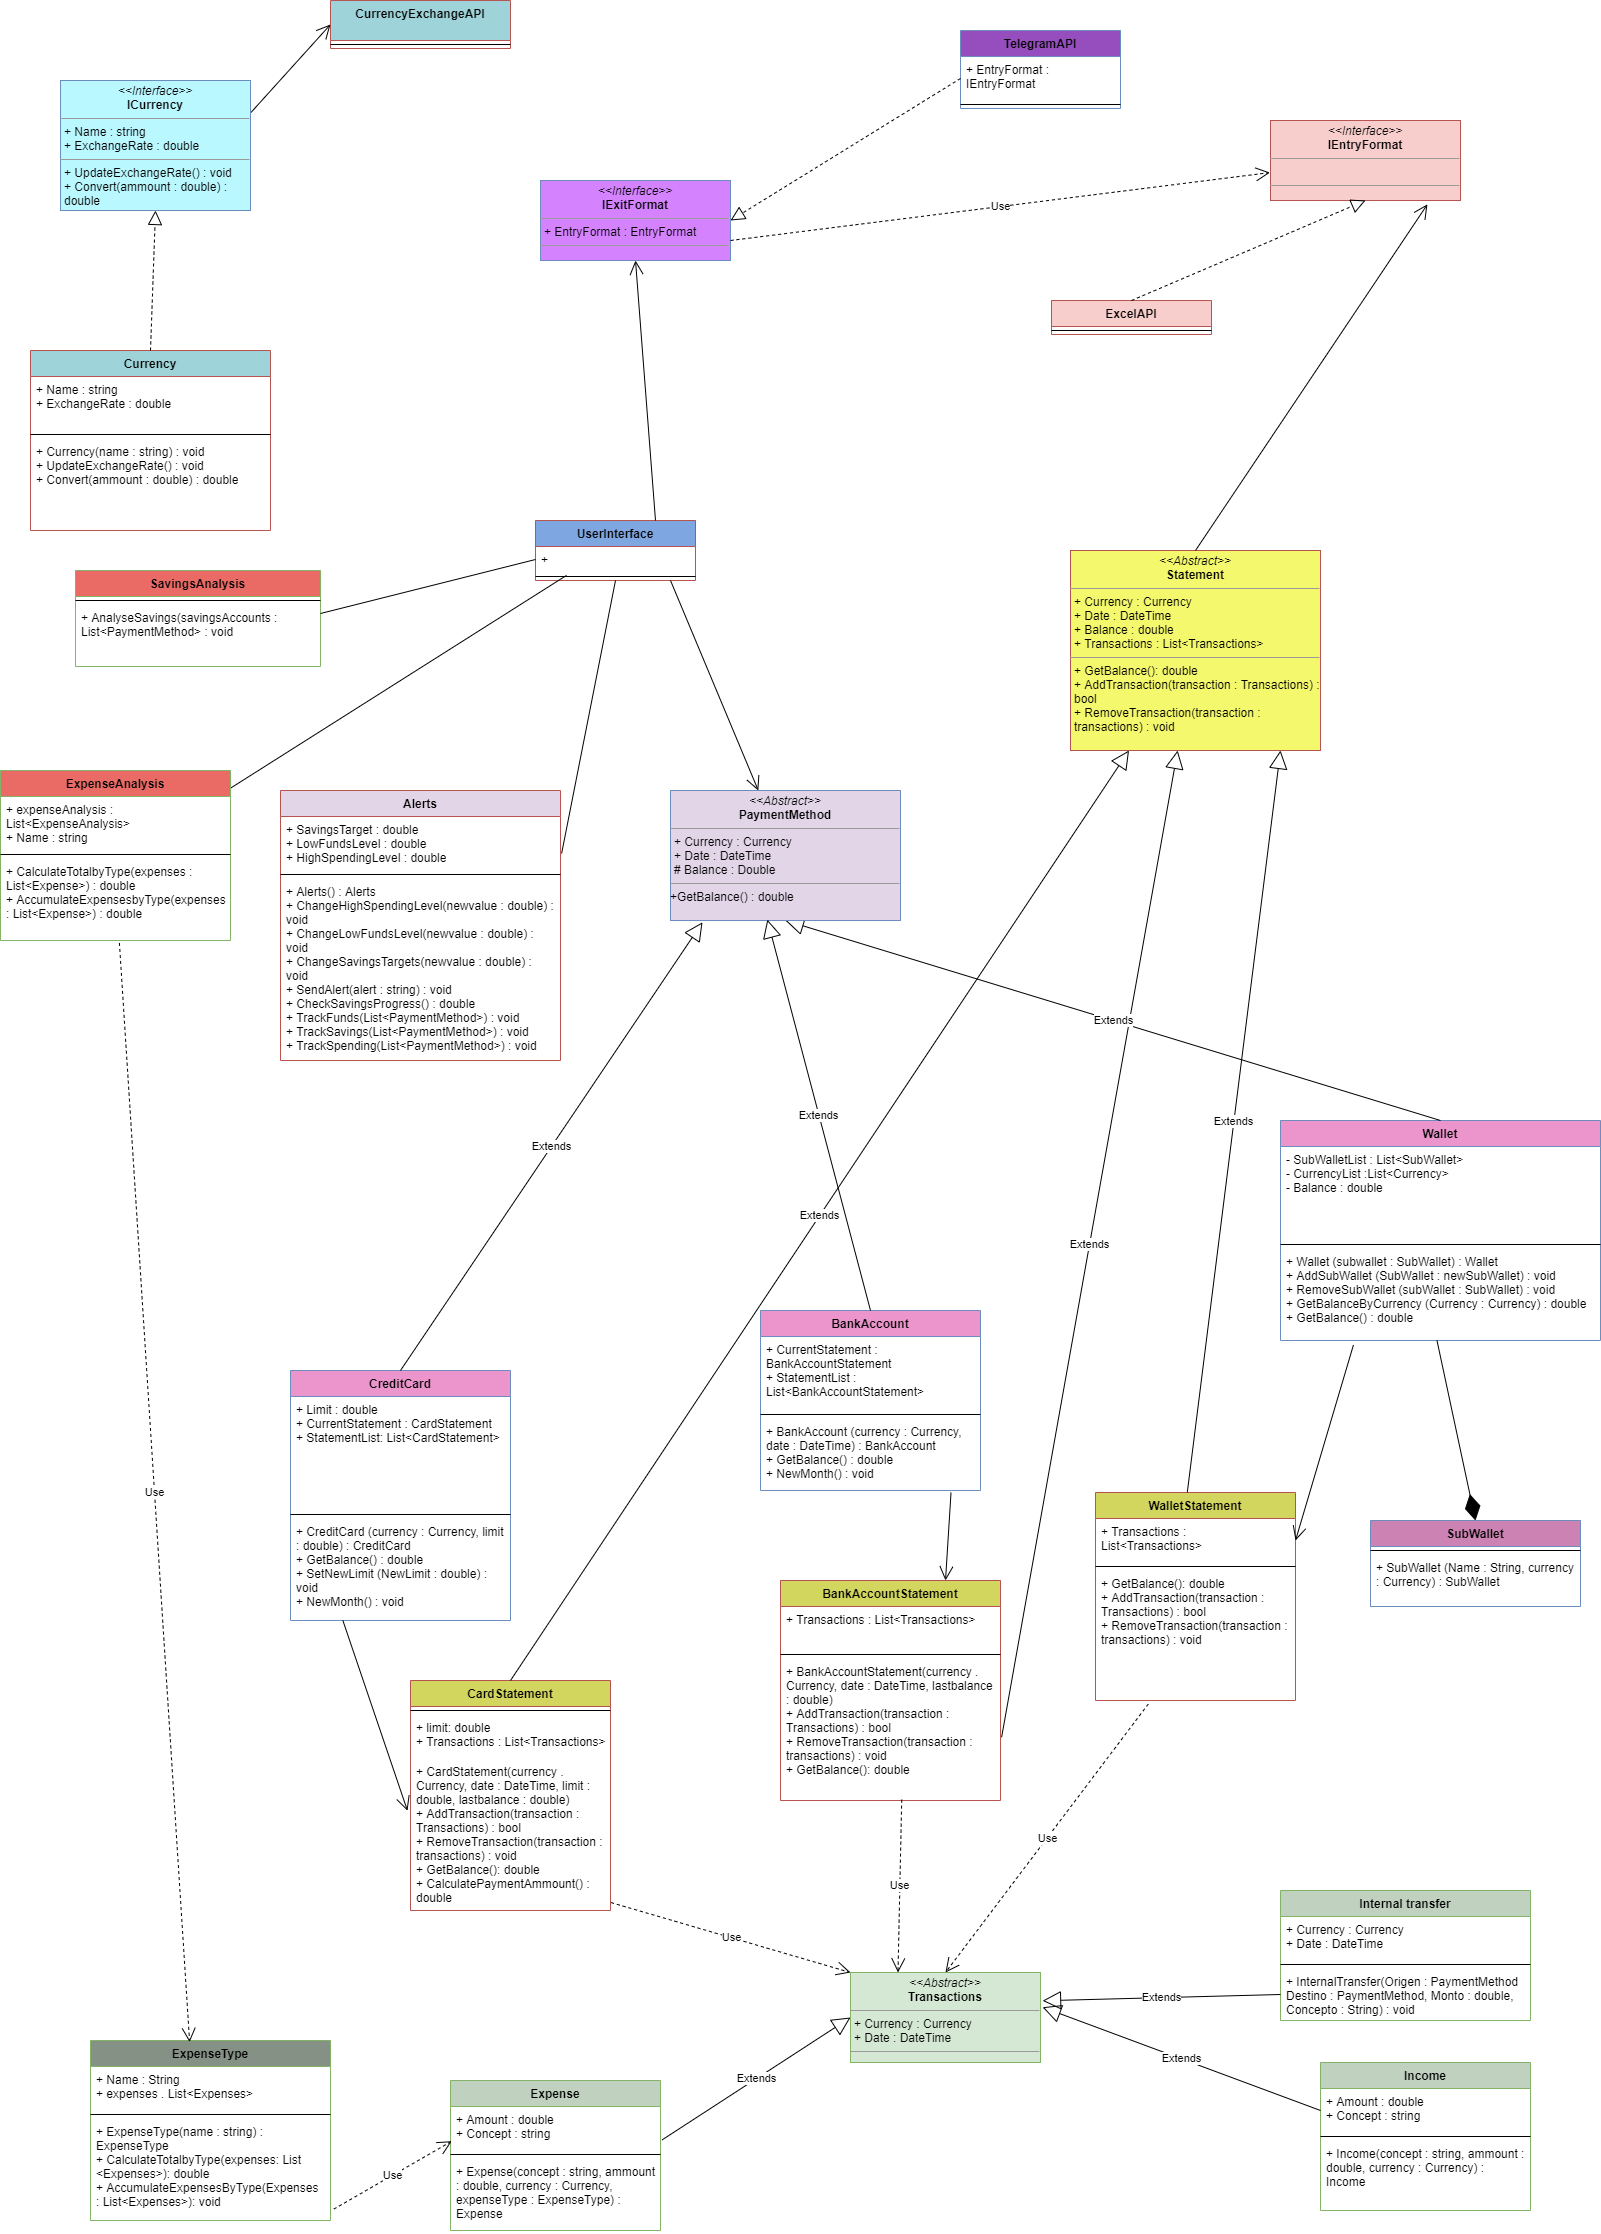
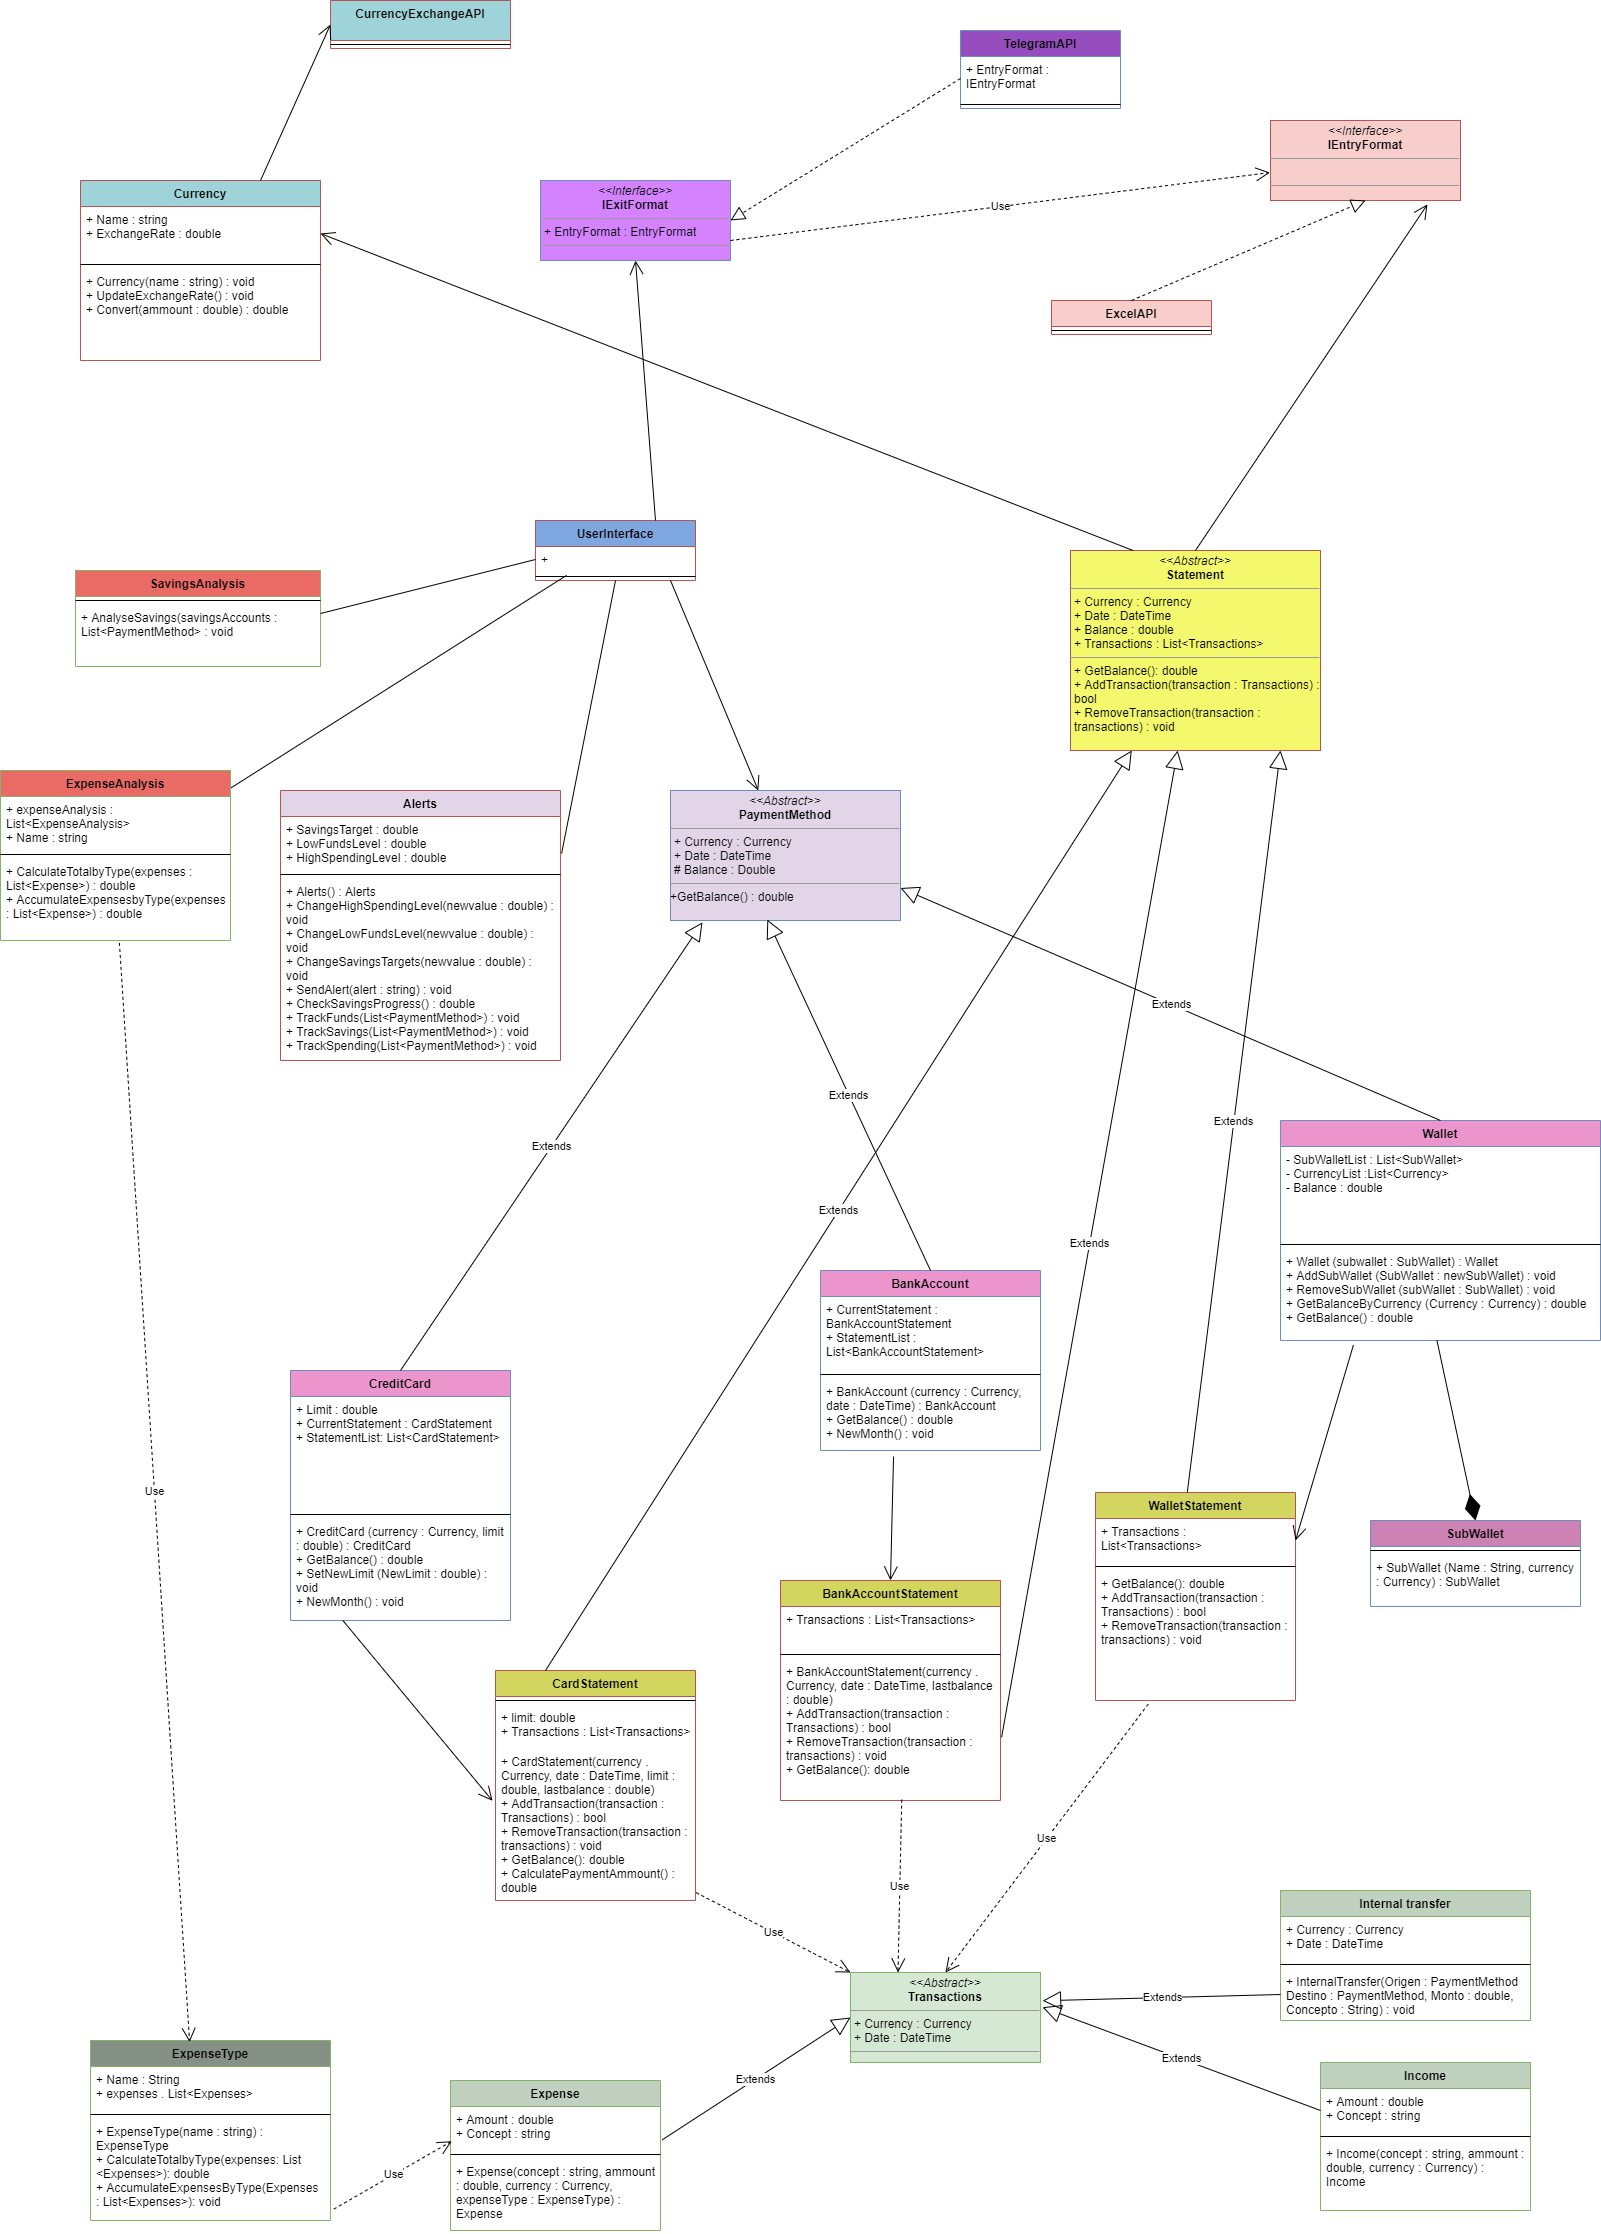
currencyfixes

diff --git a/src/Library/Currency.cs b/src/Library/Currency.cs
@@ -4,7 +4,7 @@ using System;
 //Porque conoce como hacerlo y conoce que moneda es.
 namespace Library
 {
-    public class Currency : ICurrency
+    public class Currency
     {
         public string Name { get; private set; }
         public double ExchangeRate { get; private set; }
